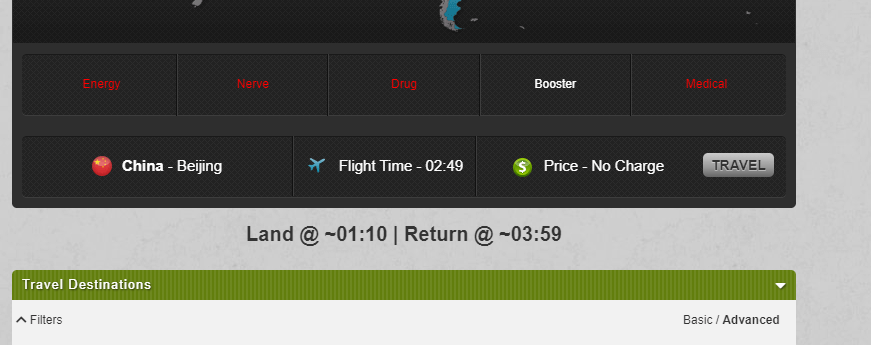
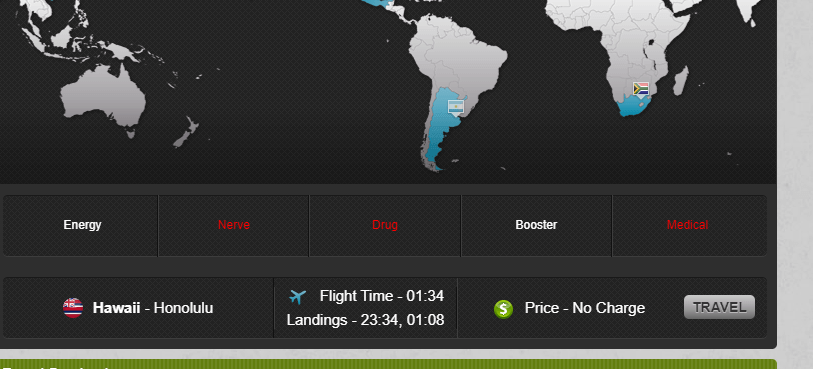
Complete rewrite, nicer design

diff --git a/torn-flight-times.js b/torn-flight-times.js
@@ -1,6 +1,6 @@
 // ==UserScript==
 // @name         Torn Flight Times
-// @version      1.0.0
+// @version      2.0.0
 // @description  Show flight times before flying
 // @author       juzraai
 // @license      MIT
@@ -13,32 +13,60 @@
 // ==/UserScript==
 
 /**
- * Adds real time clock values for landings (destination and Torn) for the
- * currently selected destination on Travel Agency screen.
+ * Format UNIX time in milliseconds to "HH:MM" string.
+ *
+ * @param {Number} ms time in milliseconds
+ * @return "HH:MM" string representation in current time zone
  */
-function addFlightTimeCalculator() {
-	const flightTime = document.querySelector('[aria-expanded=true] .travel-container .flight-time');
-	//if (!flightTime) return;
-	const hourMin = flightTime.textContent.split('-')[1].trim();
-	const [hour, minute] = hourMin.split(':').map(s => Number(s));
+function formatTime(ms) {
+	return new Date(ms).toTimeString().substring(0, 5);
+}
+
+/**
+ * Adds landing times below "Flight Time".
+ */
+function addFlightTimes() {
+
+	// This will be our new element:
+	let flightTimesEl = document.querySelector('[aria-expanded=true] .travel-container .flight-time .flight-times');
+
+	// If it doesn't exist:
+	if (!flightTimesEl) {
+
+		// Create it:
+		flightTimesEl = document.createElement('span');
+		flightTimesEl.classList.add('flight-times');
+		flightTimesEl.style.flexGrow = 1;
+
+		// Style the containers:
+		const flightTimeEl = document.querySelector('[aria-expanded=true] .travel-container .flight-time');
+		flightTimeEl.style.display = 'flex';
+		flightTimeEl.style.justifyContent = 'center';
+		flightTimeEl.style.flexWrap = 'wrap';
+		flightTimeEl.style.lineHeight = 1.2;
+
+		const travelInfoEl = document.querySelector('[aria-expanded=true] .travel-container .travel-info');
+		travelInfoEl.style.alignItems = 'center';
+		travelInfoEl.style.display = 'flex';
+
+		// And add it:
+		flightTimeEl.append(flightTimesEl);
+	}
+
+	// Extract "Flight Time":
+	const flightTimeStr = flightTimeEl.textContent.split('-')[1].trim().split(/\s/)[0];
+	const [hour, minute] = flightTimeStr.split(':').map(s => Number(s));
 	const flightTimeMs = (hour * 60 + minute) * 60 * 1000;
 
+	// Calculate landing times:
 	const now = new Date().getTime();
 	const landTimeMs = now + flightTimeMs;
 	const returnTimeMs = landTimeMs + flightTimeMs;
 
-	const landTime = new Date(landTimeMs);
-	const returnTime = new Date(returnTimeMs);
-
-	const landTimeFormatted = String(landTime.getHours()).padLeft(2, 0) + ':' + String(landTime.getMinutes()).padLeft(2, 0);
-	const returnTimeFormatted = String(returnTime.getHours()).padLeft(2, 0) + ':' + String(returnTime.getMinutes()).padLeft(2, 0);
-
-	const panel = document.querySelector('.travel-agency + .clear');
-	panel.innerHTML = `Land @ ~${landTimeFormatted} | Return @ ~${returnTimeFormatted}`;
-	panel.style.fontSize = '1.25rem';
-	panel.style.fontWeight = 'bold';
-	panel.style.padding = '1rem';
-	panel.style.textAlign = 'center';
+	// Display landing times:
+	flightTimesEl.innerHTML = `Landings - ${formatTime(landTimeMs)}, ${formatTime(returnTimeMs)}`
 }
 
-setInterval(addFlightTimeCalculator, 500);
+// Refreshing constantly:
+setInterval(addFlightTimes, 500); // This is how we react to when user selects another city or flying mode.
+// TODO Would be nice to do it more efficiently :)
